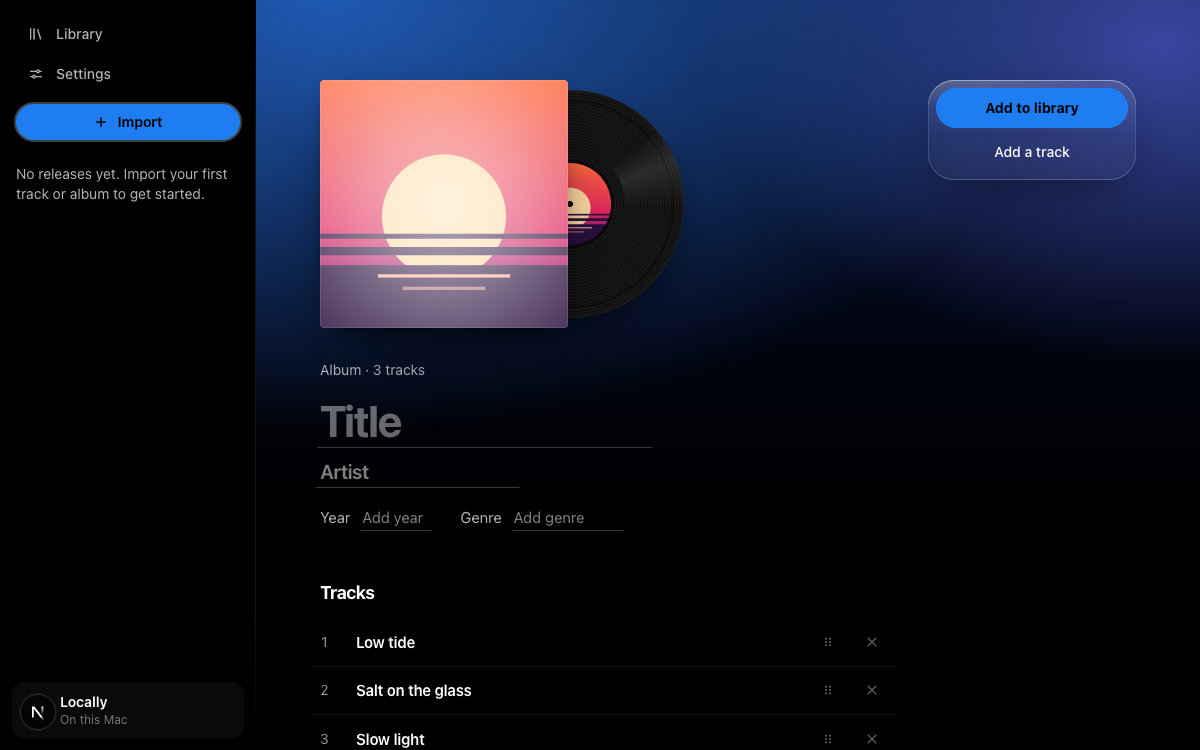
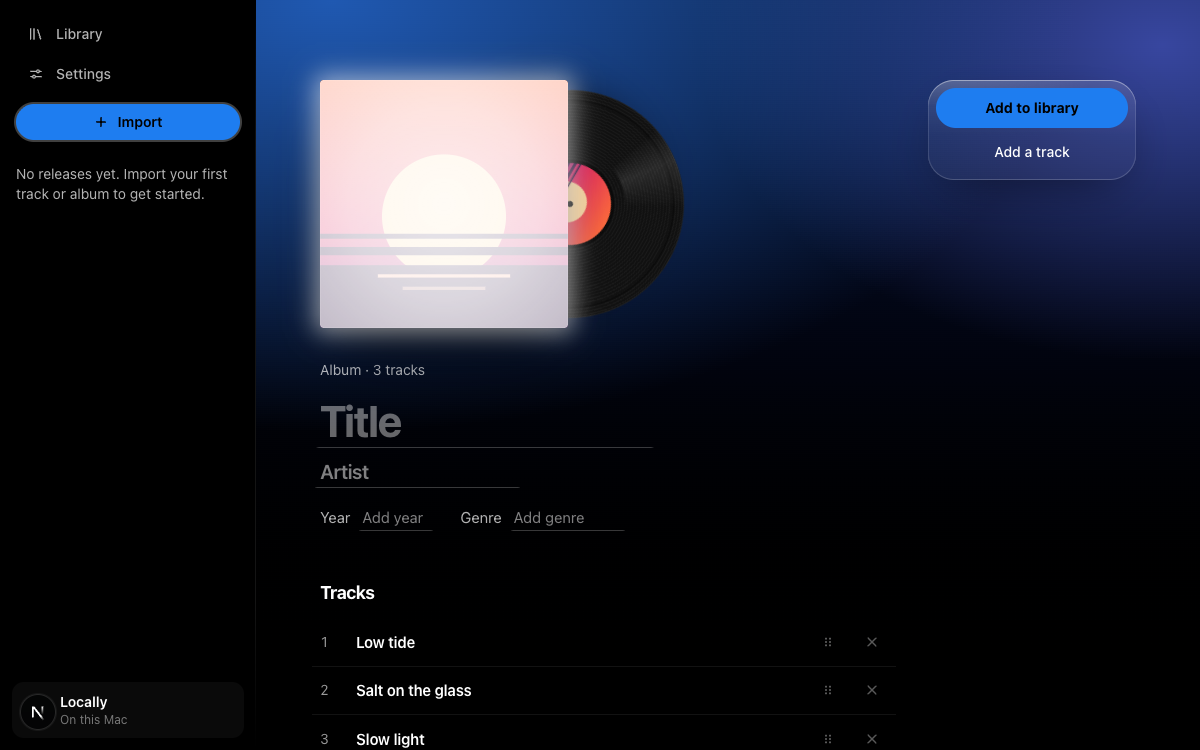
Import prototype: a fuller flash, the disc spins as it seals (#159)
Claude-Session: https://claude.ai/code/session_016wtvpvRFjMyGctvKw2v9pz

Changed region(s): [[0.2467, 0.0613, 0.5242, 0.46]]

diff --git a/apps/web/src/app/globals.css b/apps/web/src/app/globals.css
@@ -716,13 +716,11 @@ body {
 /* The cover beat, in ms from the moment a cover is chosen, full colour from the first frame
  * (ImportPrototype.tsx holds the colour wash time that goes with it):
  *    0 for 420  the cover slides in from the right (V1's original slide: 48px and a fade)
- *  280 for 460  the disc settles with a turn, 240deg decelerating into place (.record-face); it
- *               starts in the slide's tail and has landed before the flash
- *  740 for 490  a camera flash over the sleeve once the cover is in and the disc has landed
- *               (.imp-flash): up in 90ms, then 400ms to fade; the colour wash starts with it, on
- *               the backdrop's own 900ms fade
- * 1100 for 520  the disc slides all the way into the sleeve (.record-disc), in the flash's
- *               decay: it's sealed
+ *  420 for 700  a camera flash over the whole sleeve (.imp-flash) as soon as the slide is done: up
+ *               in 90ms, held 60ms at 0.9, then 550ms to fade so the colour comes back through
+ *               the white; the colour wash starts with it, on the backdrop's own 900ms fade
+ *  640 for 600  the disc slides all the way into the sleeve and turns 240deg as it goes, one
+ *               decelerating motion (.record-disc and .record-face), in the flash's decay: sealed
  * After the beat the disc rests in the sleeve and hovering the record brings it out again (the
  * `.record:hover` rule above). */
 .imp-beat,
@@ -743,35 +741,40 @@ body {
 @keyframes imp-slide {
   from { opacity: 0; transform: translateX(48px); }
 }
-/* A soft radial white, brightest at the centre with softer edges. Opacity only, and it rests at
- * 0 so nothing is left over once it has run. */
+/* White light over the whole sleeve, a little softer toward the edges, with a feathered spill
+ * past them that fades to nothing within about 30px. Opacity only; it rests at 0 so nothing is
+ * left once it has run. The decay curve is deliberately not the expo-out house easing, which
+ * would drop it in about 200ms: this one holds the light so the colour returns through it. */
 .imp-flash {
   position: absolute;
   inset: 0;
+  border-radius: 4px;
   pointer-events: none;
   opacity: 0;
   background: radial-gradient(
     circle farthest-corner at 50% 50%,
     rgb(255 255 255 / 1) 0%,
-    rgb(255 255 255 / 0.7) 45%,
-    rgb(255 255 255 / 0.25) 100%
+    rgb(255 255 255 / 0.92) 55%,
+    rgb(255 255 255 / 0.8) 100%
   );
-  animation: imp-flash 490ms cubic-bezier(0.16, 1, 0.3, 1) backwards;
-  animation-delay: calc(740ms - var(--imp-t, 0ms));
+  box-shadow: 0 0 24px 6px rgb(255 255 255 / 0.6);
+  animation: imp-flash 700ms linear backwards;
+  animation-delay: calc(420ms - var(--imp-t, 0ms));
   animation-play-state: var(--imp-run, running);
 }
 @keyframes imp-flash {
-  0% { opacity: 0; }
-  18% { opacity: 0.65; }
+  0% { opacity: 0; animation-timing-function: cubic-bezier(0.25, 0.1, 0.25, 1); }
+  12.9% { opacity: 0.9; }
+  21.4% { opacity: 0.9; animation-timing-function: cubic-bezier(0.5, 0, 0.7, 1); }
   100% { opacity: 0; }
 }
 /* The grooves are rotationally symmetric, so the turn is carried by the label's art. */
 .imp-beat .record-face {
-  animation: imp-settle 460ms cubic-bezier(0.16, 1, 0.3, 1) backwards;
-  animation-delay: calc(280ms - var(--imp-t, 0ms));
+  animation: imp-turn 600ms cubic-bezier(0.16, 1, 0.3, 1) backwards;
+  animation-delay: calc(640ms - var(--imp-t, 0ms));
   animation-play-state: var(--imp-run, running);
 }
-@keyframes imp-settle {
+@keyframes imp-turn {
   from { rotate: -240deg; }
 }
 .imp-beat .record-disc,
@@ -782,8 +785,8 @@ body {
   animation: none;
 }
 .imp-beat .record-disc {
-  animation: imp-away 520ms cubic-bezier(0.16, 1, 0.3, 1) backwards;
-  animation-delay: calc(1100ms - var(--imp-t, 0ms));
+  animation: imp-away 600ms cubic-bezier(0.16, 1, 0.3, 1) backwards;
+  animation-delay: calc(640ms - var(--imp-t, 0ms));
   animation-play-state: var(--imp-run, running);
 }
 @keyframes imp-away {

diff --git a/apps/web/src/components/dev/import/CoverSleeve.tsx b/apps/web/src/components/dev/import/CoverSleeve.tsx
@@ -20,34 +20,38 @@ const LAYER = "absolute inset-0 size-full object-cover";
  * next sample cover. Rendered as the child of RecordSleeve. */
 export default function CoverSleeve({ cover, beat, onPick }: CoverSleeveProps) {
   return (
-    <div
-      role="button"
-      tabIndex={0}
-      aria-label={cover ? "Cover art" : "Add cover art"}
-      onClick={onPick}
-      onKeyDown={(e) => {
-        if (e.key === "Enter" || e.key === " ") {
+    <>
+      <div
+        role="button"
+        tabIndex={0}
+        aria-label={cover ? "Cover art" : "Add cover art"}
+        onClick={onPick}
+        onKeyDown={(e) => {
+          if (e.key === "Enter" || e.key === " ") {
+            e.preventDefault();
+            onPick();
+          }
+        }}
+        onDragOver={(e) => e.preventDefault()}
+        onDrop={(e) => {
           e.preventDefault();
           onPick();
-        }
-      }}
-      onDragOver={(e) => e.preventDefault()}
-      onDrop={(e) => {
-        e.preventDefault();
-        onPick();
-      }}
-      className="record-sleeve relative flex size-[200px] shrink-0 cursor-pointer items-center justify-center overflow-hidden rounded-[4px] bg-card text-center outline-none focus-visible:ring-2 focus-visible:ring-accent sm:size-[248px]"
-    >
-      {(cover === null || beat) && (
-        <div className={`flex flex-col items-center gap-2 px-6 ${cover ? "imp-empty-out" : ""}`}>
-          <ImagePlusIcon className="h-8 w-8 text-text-muted" />
-          <p className="text-sm font-semibold text-text">Add cover art</p>
-          <p className="text-xs leading-snug text-text-muted">Drop an image or click to choose</p>
-        </div>
-      )}
-      {cover && <img key={cover.id} src={cover.src} alt="" className={`${beat ? "imp-cover " : ""}${LAYER}`} />}
-      {/* The camera flash once the cover is in. Opacity only; reduced motion hides it. */}
+        }}
+        className="record-sleeve relative flex size-[200px] shrink-0 cursor-pointer items-center justify-center overflow-hidden rounded-[4px] bg-card text-center outline-none focus-visible:ring-2 focus-visible:ring-accent sm:size-[248px]"
+      >
+        {(cover === null || beat) && (
+          <div className={`flex flex-col items-center gap-2 px-6 ${cover ? "imp-empty-out" : ""}`}>
+            <ImagePlusIcon className="h-8 w-8 text-text-muted" />
+            <p className="text-sm font-semibold text-text">Add cover art</p>
+            <p className="text-xs leading-snug text-text-muted">Drop an image or click to choose</p>
+          </div>
+        )}
+        {cover && <img key={cover.id} src={cover.src} alt="" className={`${beat ? "imp-cover " : ""}${LAYER}`} />}
+      </div>
+      {/* The camera flash once the cover is in: over the whole sleeve and spilling a little past
+          its edge, so it sits beside the sleeve, not inside its clip. Opacity only; reduced motion
+          hides it. */}
       {cover && beat && <div aria-hidden className="imp-flash" />}
-    </div>
+    </>
   );
 }

diff --git a/apps/web/src/components/dev/import/ImportPrototype.tsx b/apps/web/src/components/dev/import/ImportPrototype.tsx
@@ -35,10 +35,10 @@ const INVITE_PALETTE: AmbientPalette = {
 };
 
 /* The beat's clock, in ms from the moment the cover is chosen. The keyframes in globals.css
- * (.imp-cover, .record-face, .imp-flash, .record-disc under .imp-beat) hold the rest of it: slide
- * 0 for 420, disc turn 280 for 460, flash 740 for 490, disc tucks in 1100 for 520. */
+ * (.imp-cover, .imp-flash, .record-face, .record-disc under .imp-beat) hold the rest of it: slide
+ * 0 for 420, flash 420 for 700, disc tucks in and turns 640 for 600. */
 /** The colour wash starts with the flash and then uses the backdrop's own 900ms fade. */
-const WASH_AT = 740;
+const WASH_AT = 420;
 const WASH_MS = 900;
 
 const noop = () => {};
